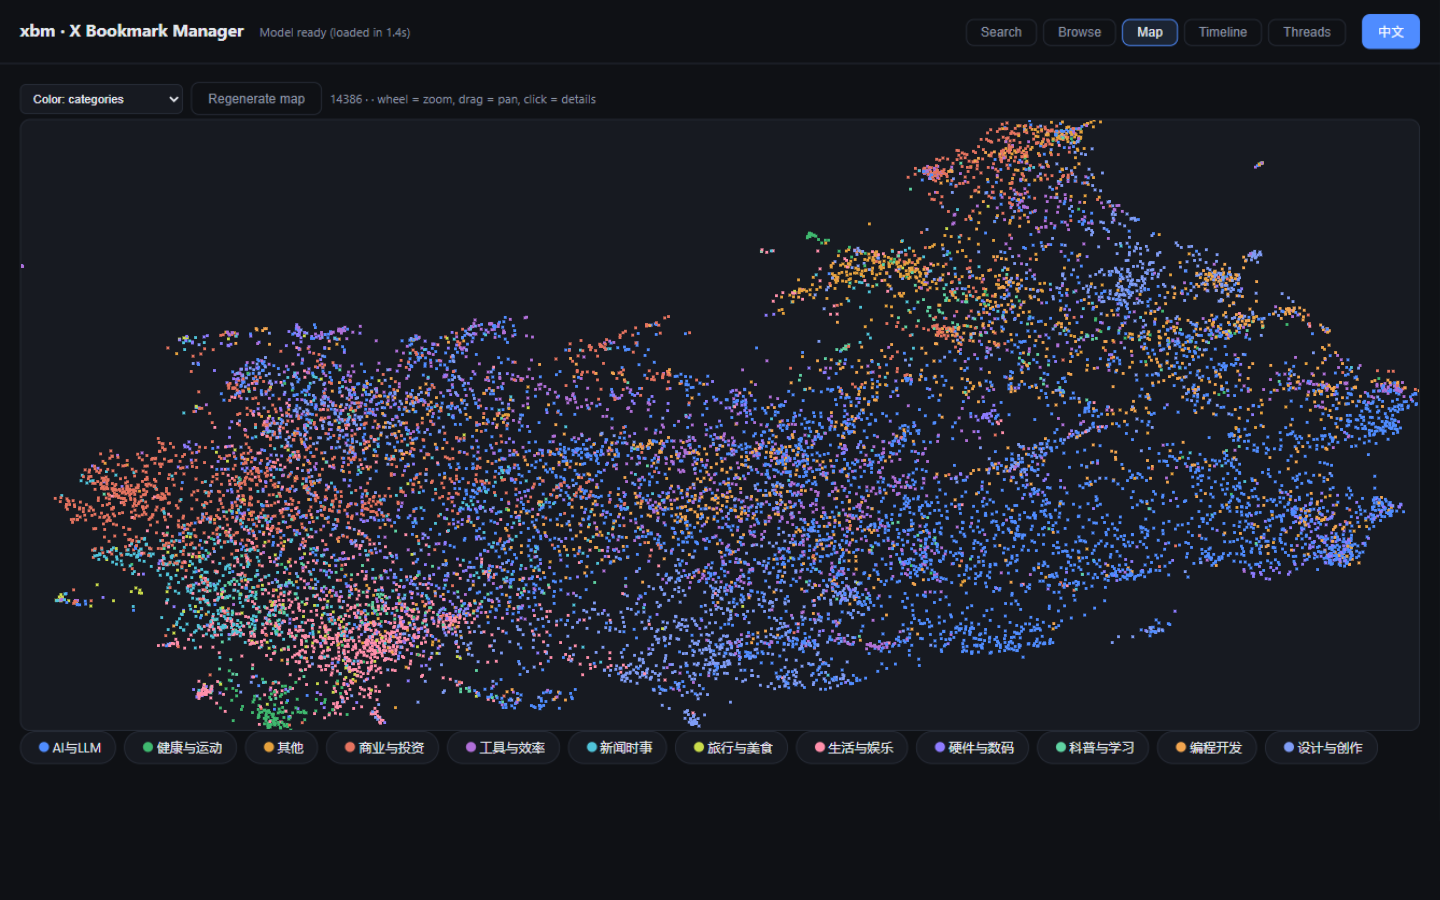
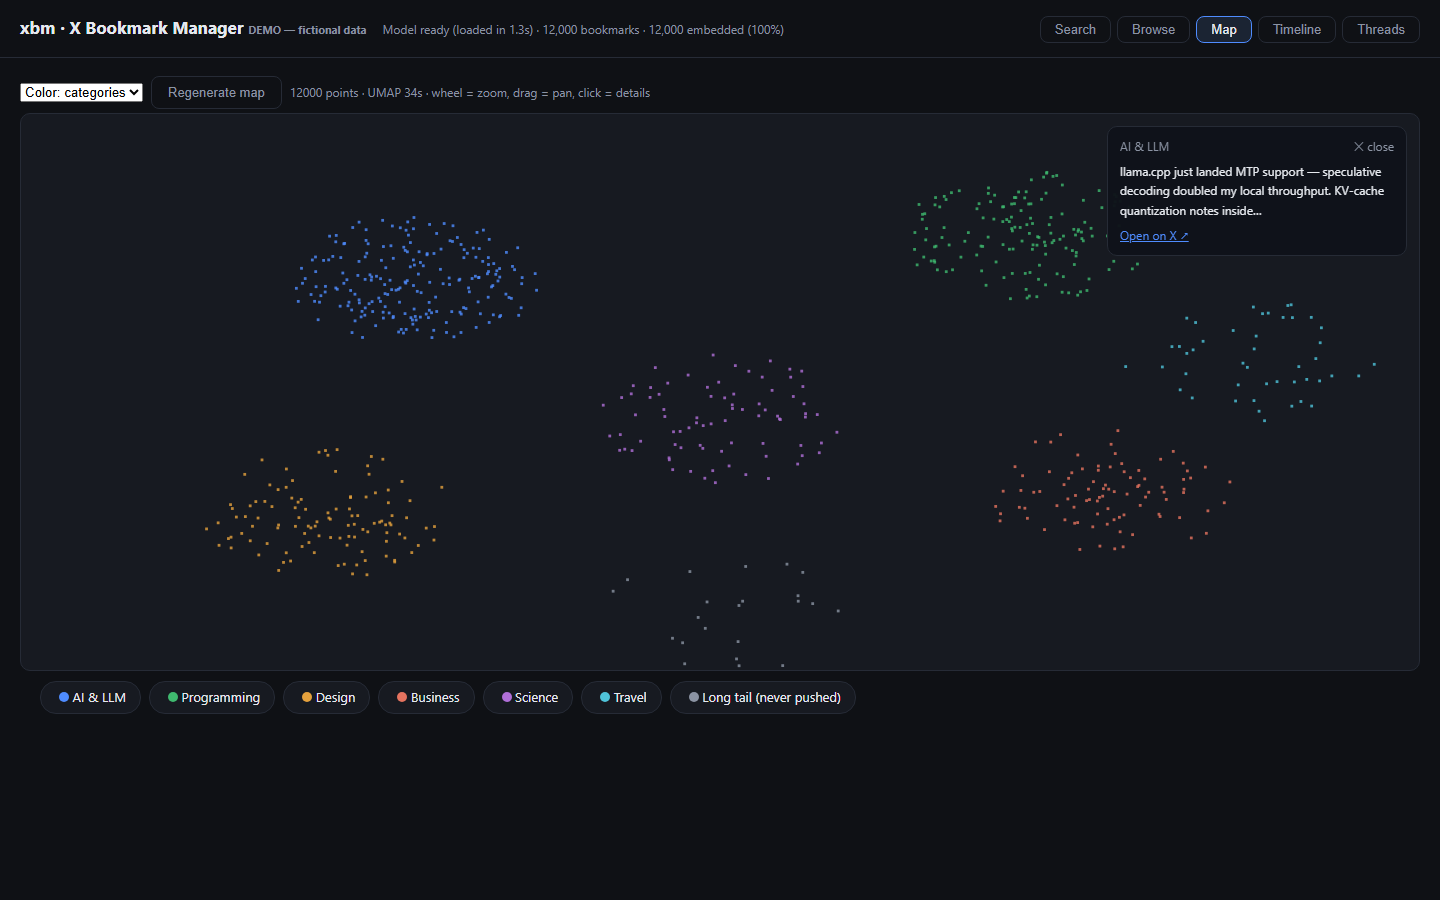
demo: standalone pure-English interactive demo page + demo screenshots
- docs/demo.html: all five views with fictional data, zero install, deep links (?view=)
- docs/screenshots-en: replaced real-data screenshots with demo screenshots
- EN README: Live-demo link, demo framing, numbers aligned to demo data

diff --git a/docs/demo.html b/docs/demo.html
@@ -187,12 +187,8 @@ function switchView(name) {
 }
 document.querySelectorAll('.views .tab').forEach(b =>
   b.addEventListener('click', () => switchView(b.dataset.v)));
-// deep link: demo.html?view=map
 window.addEventListener('resize', () => drawMap(false));
 window.addEventListener('load', () => drawMap(false));
-const want = new URLSearchParams(location.search).get('view');
-if (want && VIEWS.includes(want)) switchView(want);
-if (window.__errs.length) document.getElementById('doc-title').textContent = 'ERR: ' + window.__errs.join(' | ');
 
 // ---------- fictional data ----------
 const CATS = [
@@ -427,6 +423,12 @@ for (const [cls, title, sub, warn] of SEC) {
     tb.appendChild(div);
   }
 }
+drawMapWhenReady();
+
+// deep link: demo.html?view=map — must run AFTER data definitions
+const want = new URLSearchParams(location.search).get('view');
+if (want && VIEWS.includes(want)) switchView(want);
+if (window.__errs.length) document.getElementById('doc-title').textContent = 'ERR: ' + window.__errs.join(' | ');
 </script>
 </body>
 </html>

diff --git a/README_README.md b/README_README.md
@@ -1,6 +1,7 @@
 # xbm — X.com Bookmark Manager
 
 **English version** | [中文版](README.md)
+> 🎮 **Try it without installing**: open [`docs/demo.html`](docs/demo.html) in any browser — an interactive demo with fictional data covering all five views.
 
 Fixes the two biggest pains of X.com bookmarks: **no semantic/fuzzy search**, and
 **no content-based browsing**. All data and compute stay on your machine:
@@ -18,8 +19,8 @@ Web UI (5 views): Search · Browse (3-dim intersection) · UMAP Map · Timeline 
 
 ## Feature Tour
 
-Screenshots below are from a real library (14,441 bookmarks / 12 categories /
-1,115 keyword clusters / 27 LLM clusters / 14,386 map points).
+Screenshots below are from the **interactive demo** (`docs/demo.html`, fictional data,
+12,000 bookmarks / 12 categories / 6 keyword clusters / 6 LLM clusters).
 
 ### 1. Search — literal + semantic, fused ranking
 
@@ -56,15 +57,14 @@ One folder level doesn't scale to thousands of items. xbm slices your library al
 **All three coexist.** The literal and semantic clusterings are fully independent — the
 same topic never lands in the same bucket on both sides. That's the point: an
 intersection means "semantically close **AND** worded alike", which narrows precisely.
-Selecting a category ∩ an LLM cluster below cuts 14,441 items down to **61**:
-
-![Browse intersection](docs/screenshots-en/02-categories_operation.png)
+Selecting a category ∩ an LLM cluster below cuts 12,000 items down to **61** — every
+narrowing step has an explicit justification and is instantly clickable:
 
 Every narrowing step has an explicit justification and is instantly clickable. A single
 tag system can only shrink results; three orthogonal dimensions answer different
 questions, and combining them is real retrieval.
 
-### 3. Map — a semantic galaxy of 14,386 bookmarks
+### 3. Map — a semantic galaxy of 12,000 bookmarks
 
 ![Map view](docs/screenshots-en/03-map.png)
 
@@ -89,9 +89,9 @@ Folders give you a **list**; the map gives you **structure**:
 Per-month/quarter topic stats with an LLM-written **narrative of how your focus
 evolved** (a line or two per period + an overall throughline). Revisiting old
 bookmarks, what you really want to know is "how did I get here". This turns scattered
-bookmarks back into a **cognitive trajectory** — from 2012 science notes, to 2020
-overseas life, to the AI-tools sprout of 2021-2022, to "AI monetization in practice"
-becoming the mainline after 2023 — each node says **what shifted and why**.
+bookmarks back into a **cognitive trajectory** — from broad knowledge explainers, to
+monetization case studies, to a two-quarter deep-dive on local inference engineering,
+to agentic dev tooling — each node says **what shifted and why**.
 
 Periods prefer bookmark time and fall back to tweet time, so classic old posts you
 bookmarked years ago still appear. Windows: all-time / last 24 months / last 12 months;
@@ -117,10 +117,10 @@ deterministic rules:
 | 🌱 **Emerging** | first seen <2 months ago | evaluate whether to invest |
 | ⚡ **Hype pulse** | ≤2 months of activity, then gone | recommendation-engine hype; skim and move on |
 
-Above: **dormant threads** (300+), each with a 12-month activity sparkline showing
+Above: **dormant threads**, each with a 12-month activity sparkline showing
 "was hot, now cold" — content the algorithm will never show you again but that you
-once deliberately saved. Below: **persistent threads** (776) — the skeleton of your
-knowledge assets ("Science explainers" active 44 months, "AI dev tools" 33 months).
+once deliberately saved. Below: **persistent threads** — the skeleton of your
+knowledge assets ("Knowledge explainers" active 44 months, "AI dev tools" 33 months).
 
 ![Persistent threads](docs/screenshots-en/06-threads-persistent.png)
 
